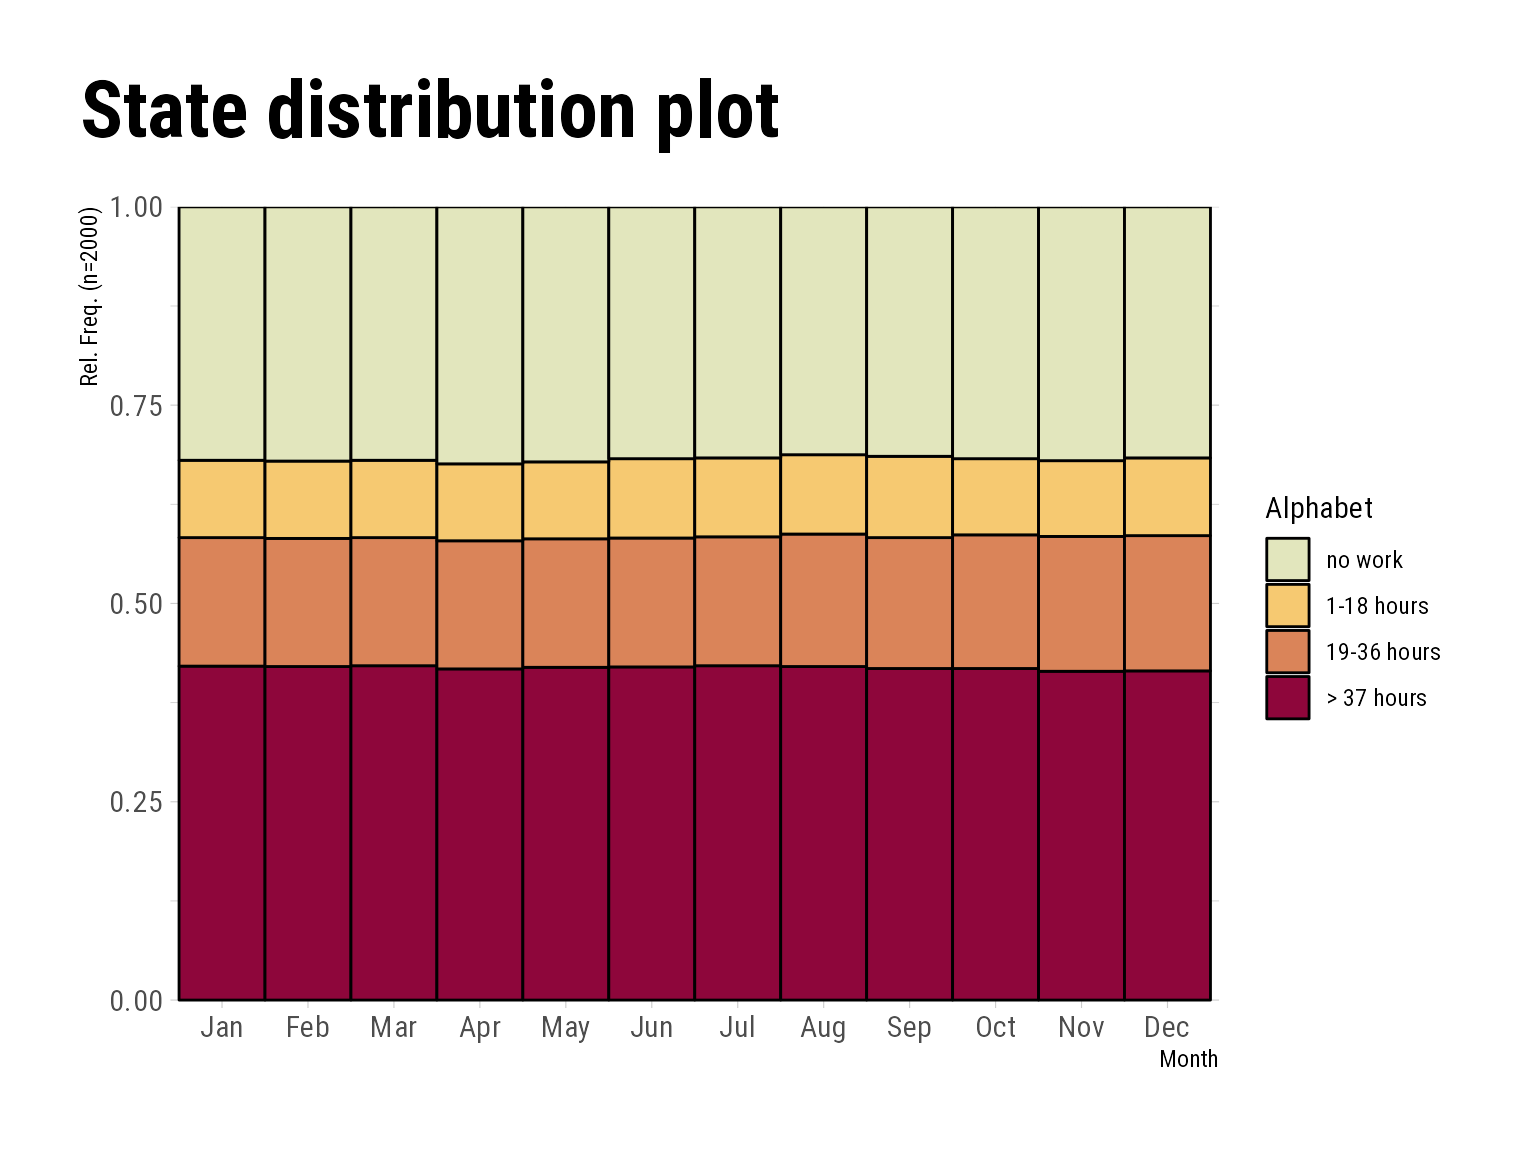
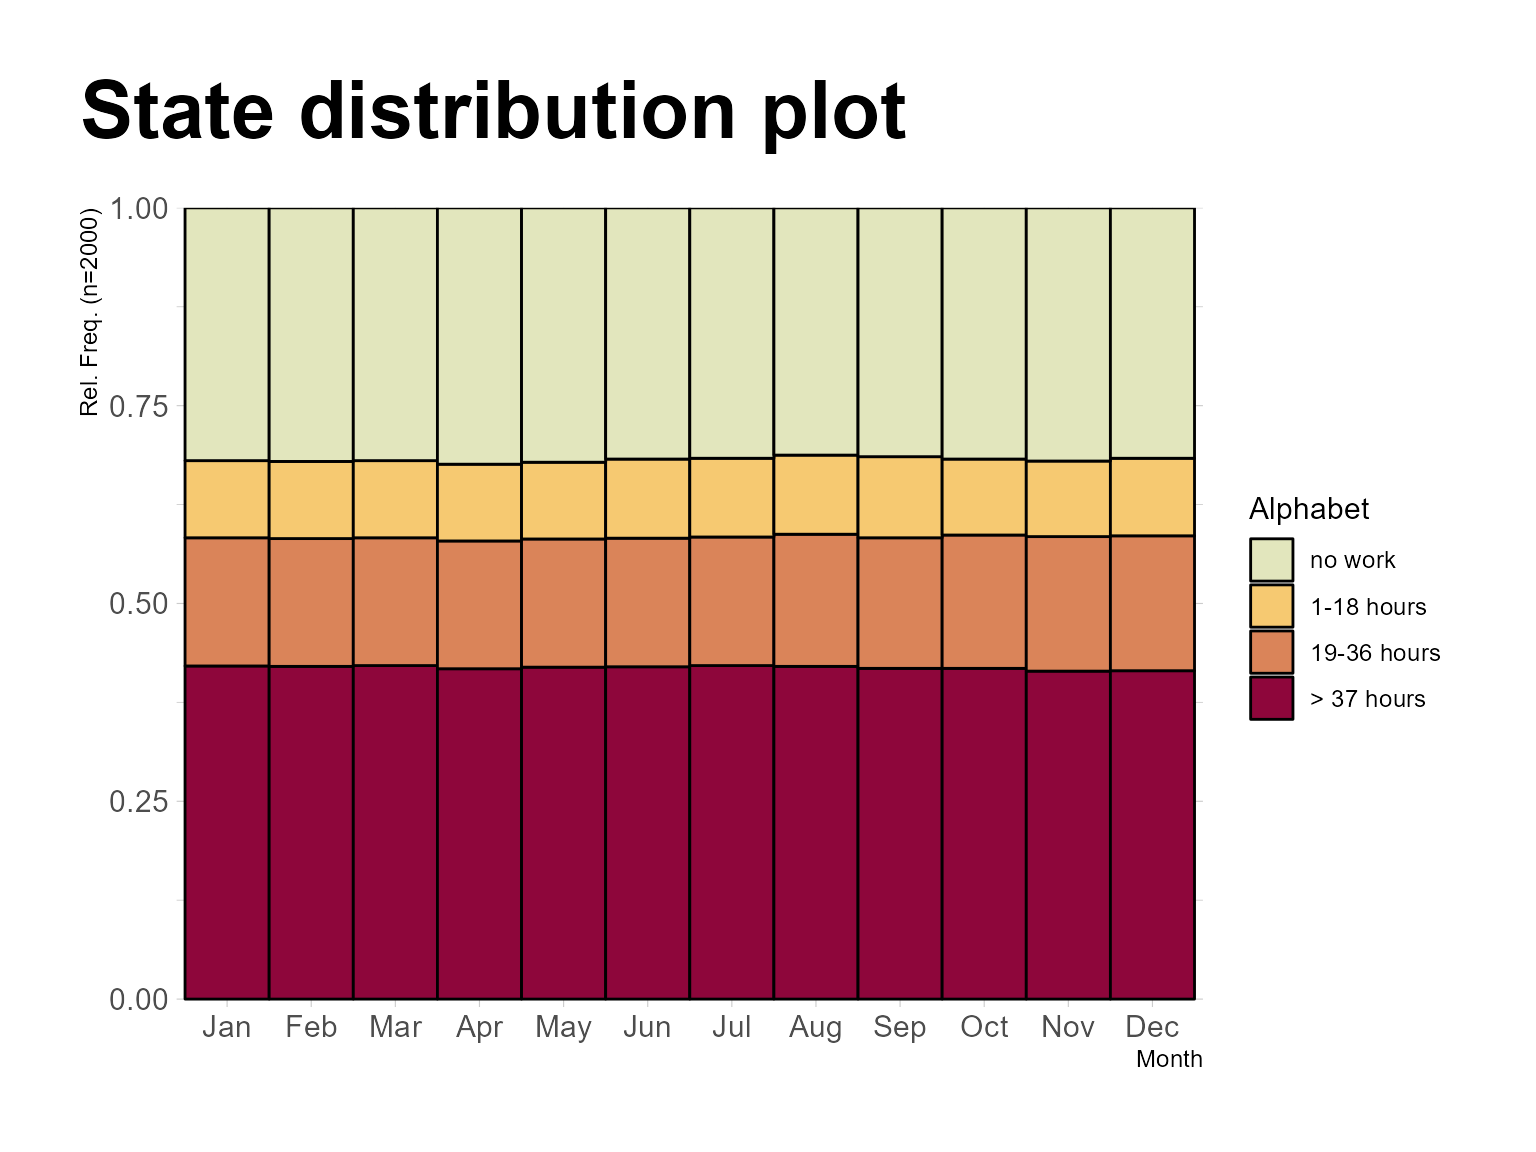
fixed font issue

diff --git a/docs/articles/seq-summarization-plots.html b/docs/articles/seq-summarization-plots.html
@@ -35,7 +35,7 @@
     
     <a class="navbar-brand me-2" href="../index.html">ggseqplot</a>
 
-    <small class="nav-text text-muted me-auto" data-bs-toggle="tooltip" data-bs-placement="bottom" title="">0.0.0.9060</small>
+    <small class="nav-text text-muted me-auto" data-bs-toggle="tooltip" data-bs-placement="bottom" title="">0.0.0.9061</small>
 
     
     <button class="navbar-toggler" type="button" data-bs-toggle="collapse" data-bs-target="#navbar" aria-controls="navbar" aria-expanded="false" aria-label="Toggle navigation">
@@ -165,7 +165,7 @@ packages</strong>
 <span class="va">biofam.lab</span> <span class="op">&lt;-</span> <span class="fu"><a href="https://rdrr.io/r/base/c.html" class="external-link">c</a></span><span class="op">(</span><span class="st">"Parent"</span>, <span class="st">"Left"</span>, <span class="st">"Married"</span>, <span class="st">"Left+Marr"</span>,
                 <span class="st">"Child"</span>, <span class="st">"Left+Child"</span>, <span class="st">"Left+Marr+Child"</span>, <span class="st">"Divorced"</span><span class="op">)</span>
 
-<span class="va">biofam.seq</span> <span class="op">&lt;-</span> <span class="fu">seqdef</span><span class="op">(</span><span class="va">biofam</span>, <span class="fl">10</span><span class="op">:</span><span class="fl">25</span>, 
+<span class="va">biofam.seq</span> <span class="op">&lt;-</span> <span class="fu"><a href="https://rdrr.io/pkg/TraMineR/man/seqdef.html" class="external-link">seqdef</a></span><span class="op">(</span><span class="va">biofam</span>, <span class="fl">10</span><span class="op">:</span><span class="fl">25</span>, 
                      labels <span class="op">=</span> <span class="va">biofam.lab</span>,
                      weights <span class="op">=</span> <span class="va">biofam</span><span class="op">$</span><span class="va">wp00tbgs</span><span class="op">)</span>
 
@@ -174,12 +174,12 @@ packages</strong>
 
 <span class="va">actcal.lab</span> <span class="op">&lt;-</span> <span class="fu"><a href="https://rdrr.io/r/base/c.html" class="external-link">c</a></span><span class="op">(</span><span class="st">"&gt; 37 hours"</span>, <span class="st">"19-36 hours"</span>, <span class="st">"1-18 hours"</span>, <span class="st">"no work"</span><span class="op">)</span>
 
-<span class="va">actcal.seq</span> <span class="op">&lt;-</span> <span class="fu">seqdef</span><span class="op">(</span><span class="va">actcal</span>,<span class="fl">13</span><span class="op">:</span><span class="fl">24</span>,
+<span class="va">actcal.seq</span> <span class="op">&lt;-</span> <span class="fu"><a href="https://rdrr.io/pkg/TraMineR/man/seqdef.html" class="external-link">seqdef</a></span><span class="op">(</span><span class="va">actcal</span>,<span class="fl">13</span><span class="op">:</span><span class="fl">24</span>,
                      labels<span class="op">=</span><span class="va">actcal.lab</span><span class="op">)</span>
 
 <span class="co">## ex1 data</span>
 <span class="fu"><a href="https://rdrr.io/r/utils/data.html" class="external-link">data</a></span><span class="op">(</span><span class="va">ex1</span><span class="op">)</span>
-<span class="va">ex1.seq</span> <span class="op">&lt;-</span> <span class="fu">seqdef</span><span class="op">(</span><span class="va">ex1</span>, <span class="fl">1</span><span class="op">:</span><span class="fl">13</span>, 
+<span class="va">ex1.seq</span> <span class="op">&lt;-</span> <span class="fu"><a href="https://rdrr.io/pkg/TraMineR/man/seqdef.html" class="external-link">seqdef</a></span><span class="op">(</span><span class="va">ex1</span>, <span class="fl">1</span><span class="op">:</span><span class="fl">13</span>, 
                   weights<span class="op">=</span><span class="va">ex1</span><span class="op">$</span><span class="va">weights</span><span class="op">)</span></code></pre></div>
 <p>Note that the default figure size in this document is specified
 as:</p>
@@ -236,7 +236,7 @@ of the defaults. Despite a few layout differences both produce pretty
 similar results.</p>
 <div class="sourceCode" id="cb4"><pre class="downlit sourceCode r">
 <code class="sourceCode R"><span class="co"># TraMineR::seqplot</span>
-<span class="fu">seqdplot</span><span class="op">(</span><span class="va">actcal.seq</span><span class="op">)</span></code></pre></div>
+<span class="fu"><a href="https://rdrr.io/pkg/TraMineR/man/seqplot.html" class="external-link">seqdplot</a></span><span class="op">(</span><span class="va">actcal.seq</span><span class="op">)</span></code></pre></div>
 <p><img src="seq-summarization-plots_files/figure-html/dplot1-1.png" width="768"></p>
 <div class="sourceCode" id="cb5"><pre class="downlit sourceCode r">
 <code class="sourceCode R">
@@ -247,7 +247,7 @@ similar results.</p>
 visualizing the state distributions by gender.</p>
 <div class="sourceCode" id="cb6"><pre class="downlit sourceCode r">
 <code class="sourceCode R"><span class="co"># TraMineR::seqplot</span>
-<span class="fu">seqdplot</span><span class="op">(</span><span class="va">actcal.seq</span>, group<span class="op">=</span><span class="va">actcal</span><span class="op">$</span><span class="va">sex</span><span class="op">)</span></code></pre></div>
+<span class="fu"><a href="https://rdrr.io/pkg/TraMineR/man/seqplot.html" class="external-link">seqdplot</a></span><span class="op">(</span><span class="va">actcal.seq</span>, group<span class="op">=</span><span class="va">actcal</span><span class="op">$</span><span class="va">sex</span><span class="op">)</span></code></pre></div>
 <p><img src="seq-summarization-plots_files/figure-html/unnamed-chunk-3-1.png" width="768"></p>
 <div class="sourceCode" id="cb7"><pre class="downlit sourceCode r">
 <code class="sourceCode R">
@@ -265,13 +265,13 @@ dramatically changed with a few adjustments:</p>
 <div class="sourceCode" id="cb8"><pre class="downlit sourceCode r">
 <code class="sourceCode R"><span class="fu"><a href="../reference/ggseqdplot.html">ggseqdplot</a></span><span class="op">(</span><span class="va">actcal.seq</span><span class="op">)</span> <span class="op">+</span>
   <span class="fu">scale_fill_discrete_sequential</span><span class="op">(</span><span class="st">"heat"</span><span class="op">)</span> <span class="op">+</span>
-  <span class="fu">scale_x_discrete</span><span class="op">(</span>labels <span class="op">=</span> <span class="va">month.abb</span><span class="op">)</span> <span class="op">+</span>
-  <span class="fu">labs</span><span class="op">(</span>title <span class="op">=</span> <span class="st">"State distribution plot"</span>,
+  <span class="fu"><a href="https://ggplot2.tidyverse.org/reference/scale_discrete.html" class="external-link">scale_x_discrete</a></span><span class="op">(</span>labels <span class="op">=</span> <span class="va">month.abb</span><span class="op">)</span> <span class="op">+</span>
+  <span class="fu"><a href="https://ggplot2.tidyverse.org/reference/labs.html" class="external-link">labs</a></span><span class="op">(</span>title <span class="op">=</span> <span class="st">"State distribution plot"</span>,
        x <span class="op">=</span> <span class="st">"Month"</span><span class="op">)</span> <span class="op">+</span>
-  <span class="fu">guides</span><span class="op">(</span>fill<span class="op">=</span><span class="fu">guide_legend</span><span class="op">(</span>title<span class="op">=</span><span class="st">"Alphabet"</span><span class="op">)</span><span class="op">)</span> <span class="op">+</span>
-  <span class="fu">theme_ipsum_rc</span><span class="op">(</span><span class="op">)</span> <span class="op">+</span>
-  <span class="fu">theme</span><span class="op">(</span>plot.title <span class="op">=</span> <span class="fu">element_text</span><span class="op">(</span>size <span class="op">=</span> <span class="fl">30</span>, 
-                                  margin<span class="op">=</span><span class="fu">margin</span><span class="op">(</span><span class="fl">0</span>,<span class="fl">0</span>,<span class="fl">20</span>,<span class="fl">0</span><span class="op">)</span><span class="op">)</span>,
+  <span class="fu"><a href="https://ggplot2.tidyverse.org/reference/guides.html" class="external-link">guides</a></span><span class="op">(</span>fill<span class="op">=</span><span class="fu"><a href="https://ggplot2.tidyverse.org/reference/guide_legend.html" class="external-link">guide_legend</a></span><span class="op">(</span>title<span class="op">=</span><span class="st">"Alphabet"</span><span class="op">)</span><span class="op">)</span> <span class="op">+</span>
+  <span class="fu">theme_ipsum</span><span class="op">(</span>base_family <span class="op">=</span> <span class="st">""</span><span class="op">)</span> <span class="op">+</span> <span class="co"># ensures that this works on different OS</span>
+  <span class="fu"><a href="https://ggplot2.tidyverse.org/reference/theme.html" class="external-link">theme</a></span><span class="op">(</span>plot.title <span class="op">=</span> <span class="fu"><a href="https://ggplot2.tidyverse.org/reference/element.html" class="external-link">element_text</a></span><span class="op">(</span>size <span class="op">=</span> <span class="fl">30</span>, 
+                                  margin<span class="op">=</span><span class="fu"><a href="https://ggplot2.tidyverse.org/reference/element.html" class="external-link">margin</a></span><span class="op">(</span><span class="fl">0</span>,<span class="fl">0</span>,<span class="fl">20</span>,<span class="fl">0</span><span class="op">)</span><span class="op">)</span>,
         plot.title.position <span class="op">=</span> <span class="st">"plot"</span><span class="op">)</span></code></pre></div>
 <p><img src="seq-summarization-plots_files/figure-html/unnamed-chunk-4-1.png" width="768"></p>
 <p>In the following example we again illustrate a few <a href="https://ggplot2.tidyverse.org/" target="_blank" class="external-link"><code>{ggplot2}</code></a> functions &amp; extensions by
@@ -286,23 +286,23 @@ library <span class="citation">(Pedersen, 2020)</span>.</p>
 <code class="sourceCode R"><span class="co"># Save plot using weights</span>
 <span class="va">p1</span> <span class="op">&lt;-</span> <span class="fu"><a href="../reference/ggseqdplot.html">ggseqdplot</a></span><span class="op">(</span><span class="va">ex1.seq</span>, 
                  with.entropy <span class="op">=</span> <span class="cn">TRUE</span><span class="op">)</span> <span class="op">+</span> 
-  <span class="fu">ggtitle</span><span class="op">(</span><span class="st">"Weighted data"</span><span class="op">)</span>
+  <span class="fu"><a href="https://ggplot2.tidyverse.org/reference/labs.html" class="external-link">ggtitle</a></span><span class="op">(</span><span class="st">"Weighted data"</span><span class="op">)</span>
 
 <span class="co"># Save same plot without using weights</span>
 <span class="va">p2</span> <span class="op">&lt;-</span> <span class="fu"><a href="../reference/ggseqdplot.html">ggseqdplot</a></span><span class="op">(</span><span class="va">ex1.seq</span>, 
                  with.entropy <span class="op">=</span> <span class="cn">TRUE</span>,
                  weighted <span class="op">=</span> <span class="cn">FALSE</span><span class="op">)</span> <span class="op">+</span> 
-  <span class="fu">ggtitle</span><span class="op">(</span><span class="st">"Unweighted data"</span><span class="op">)</span>
+  <span class="fu"><a href="https://ggplot2.tidyverse.org/reference/labs.html" class="external-link">ggtitle</a></span><span class="op">(</span><span class="st">"Unweighted data"</span><span class="op">)</span>
 
 <span class="co"># Arrange and refine plots using patchwork</span>
 <span class="va">p1</span> <span class="op">+</span> <span class="va">p2</span> <span class="op">+</span> 
-  <span class="fu">plot_layout</span><span class="op">(</span>guides <span class="op">=</span> <span class="st">"collect"</span><span class="op">)</span> <span class="op">&amp;</span>
-  <span class="fu">scale_fill_manual</span><span class="op">(</span>values<span class="op">=</span> <span class="va">canva_palettes</span><span class="op">$</span><span class="va">`Fun and tropical`</span><span class="op">[</span><span class="fl">1</span><span class="op">:</span><span class="fl">4</span><span class="op">]</span><span class="op">)</span> <span class="op">&amp;</span>
-  <span class="fu">theme_ipsum_rc</span><span class="op">(</span><span class="op">)</span> <span class="op">&amp;</span>
-  <span class="fu">theme</span><span class="op">(</span>plot.title <span class="op">=</span> <span class="fu">element_text</span><span class="op">(</span>size <span class="op">=</span> <span class="fl">20</span>,
+  <span class="fu"><a href="https://patchwork.data-imaginist.com/reference/plot_layout.html" class="external-link">plot_layout</a></span><span class="op">(</span>guides <span class="op">=</span> <span class="st">"collect"</span><span class="op">)</span> <span class="op">&amp;</span>
+  <span class="fu"><a href="https://ggplot2.tidyverse.org/reference/scale_manual.html" class="external-link">scale_fill_manual</a></span><span class="op">(</span>values<span class="op">=</span> <span class="va">canva_palettes</span><span class="op">$</span><span class="va">`Fun and tropical`</span><span class="op">[</span><span class="fl">1</span><span class="op">:</span><span class="fl">4</span><span class="op">]</span><span class="op">)</span> <span class="op">&amp;</span>
+  <span class="fu">theme_ipsum</span><span class="op">(</span>base_family <span class="op">=</span> <span class="st">""</span><span class="op">)</span> <span class="op">&amp;</span>
+  <span class="fu"><a href="https://ggplot2.tidyverse.org/reference/theme.html" class="external-link">theme</a></span><span class="op">(</span>plot.title <span class="op">=</span> <span class="fu"><a href="https://ggplot2.tidyverse.org/reference/element.html" class="external-link">element_text</a></span><span class="op">(</span>size <span class="op">=</span> <span class="fl">20</span>,
                                   hjust <span class="op">=</span> <span class="fl">0.5</span><span class="op">)</span>,
         legend.position <span class="op">=</span> <span class="st">"bottom"</span>,
-        legend.title <span class="op">=</span> <span class="fu">element_blank</span><span class="op">(</span><span class="op">)</span><span class="op">)</span></code></pre></div>
+        legend.title <span class="op">=</span> <span class="fu"><a href="https://ggplot2.tidyverse.org/reference/element.html" class="external-link">element_blank</a></span><span class="op">(</span><span class="op">)</span><span class="op">)</span></code></pre></div>
 <p><img src="seq-summarization-plots_files/figure-html/unnamed-chunk-5-1.png" width="768"></p>
 </div>
 </div>
@@ -354,19 +354,19 @@ compute and display the transition rates of the STS sequences.</p>
                   dss <span class="op">=</span> <span class="cn">FALSE</span>, 
                   x_n.dodge <span class="op">=</span> <span class="fl">2</span>,
                   labsize <span class="op">=</span> <span class="fl">3</span><span class="op">)</span> <span class="op">+</span>
-  <span class="fu">ggtitle</span><span class="op">(</span><span class="st">"STS Sequences"</span><span class="op">)</span> <span class="op">+</span>
-  <span class="fu">theme</span><span class="op">(</span>plot.margin <span class="op">=</span> <span class="fu">unit</span><span class="op">(</span><span class="fu"><a href="https://rdrr.io/r/base/c.html" class="external-link">c</a></span><span class="op">(</span><span class="fl">5</span>,<span class="fl">10</span>,<span class="fl">5</span>,<span class="fl">5</span><span class="op">)</span>, <span class="st">"points"</span><span class="op">)</span><span class="op">)</span>
+  <span class="fu"><a href="https://ggplot2.tidyverse.org/reference/labs.html" class="external-link">ggtitle</a></span><span class="op">(</span><span class="st">"STS Sequences"</span><span class="op">)</span> <span class="op">+</span>
+  <span class="fu"><a href="https://ggplot2.tidyverse.org/reference/theme.html" class="external-link">theme</a></span><span class="op">(</span>plot.margin <span class="op">=</span> <span class="fu"><a href="https://rdrr.io/r/grid/unit.html" class="external-link">unit</a></span><span class="op">(</span><span class="fu"><a href="https://rdrr.io/r/base/c.html" class="external-link">c</a></span><span class="op">(</span><span class="fl">5</span>,<span class="fl">10</span>,<span class="fl">5</span>,<span class="fl">5</span><span class="op">)</span>, <span class="st">"points"</span><span class="op">)</span><span class="op">)</span>
 <span class="co">#&gt;  [&gt;] computing transition probabilities for states 0/1/2/3/4/5/6/7 ...</span>
 
 <span class="va">p2</span> <span class="op">&lt;-</span> <span class="fu"><a href="../reference/ggseqtrplot.html">ggseqtrplot</a></span><span class="op">(</span><span class="va">biofam.seq</span>, 
                   x_n.dodge <span class="op">=</span> <span class="fl">2</span>,
                   labsize <span class="op">=</span> <span class="fl">3</span><span class="op">)</span> <span class="op">+</span>
-    <span class="fu">ggtitle</span><span class="op">(</span><span class="st">"DSS Sequences"</span><span class="op">)</span> <span class="op">+</span>
-  <span class="fu">theme</span><span class="op">(</span>plot.margin <span class="op">=</span> <span class="fu">unit</span><span class="op">(</span><span class="fu"><a href="https://rdrr.io/r/base/c.html" class="external-link">c</a></span><span class="op">(</span><span class="fl">5</span>,<span class="fl">5</span>,<span class="fl">5</span>,<span class="fl">10</span><span class="op">)</span>, <span class="st">"points"</span><span class="op">)</span><span class="op">)</span>
+    <span class="fu"><a href="https://ggplot2.tidyverse.org/reference/labs.html" class="external-link">ggtitle</a></span><span class="op">(</span><span class="st">"DSS Sequences"</span><span class="op">)</span> <span class="op">+</span>
+  <span class="fu"><a href="https://ggplot2.tidyverse.org/reference/theme.html" class="external-link">theme</a></span><span class="op">(</span>plot.margin <span class="op">=</span> <span class="fu"><a href="https://rdrr.io/r/grid/unit.html" class="external-link">unit</a></span><span class="op">(</span><span class="fu"><a href="https://rdrr.io/r/base/c.html" class="external-link">c</a></span><span class="op">(</span><span class="fl">5</span>,<span class="fl">5</span>,<span class="fl">5</span>,<span class="fl">10</span><span class="op">)</span>, <span class="st">"points"</span><span class="op">)</span><span class="op">)</span>
 <span class="co">#&gt;  [&gt;] computing transition probabilities for states 0/1/2/3/4/5/6/7 ...</span>
 
 <span class="va">p1</span> <span class="op">+</span> <span class="va">p2</span> <span class="op">&amp;</span>
-  <span class="fu">theme</span><span class="op">(</span>plot.title <span class="op">=</span> <span class="fu">element_text</span><span class="op">(</span>size <span class="op">=</span> <span class="fl">20</span>,
+  <span class="fu"><a href="https://ggplot2.tidyverse.org/reference/theme.html" class="external-link">theme</a></span><span class="op">(</span>plot.title <span class="op">=</span> <span class="fu"><a href="https://ggplot2.tidyverse.org/reference/element.html" class="external-link">element_text</a></span><span class="op">(</span>size <span class="op">=</span> <span class="fl">20</span>,
                                   hjust <span class="op">=</span> <span class="fl">0.5</span><span class="op">)</span><span class="op">)</span></code></pre></div>
 <p><img src="seq-summarization-plots_files/figure-html/unnamed-chunk-7-1.png" width="768"></p>
 <p>Other than the grouped version of the plot this composed figure
@@ -375,11 +375,11 @@ small adjustments of the corresponding <code>theme</code> arguments.</p>
 <div class="sourceCode" id="cb12"><pre class="downlit sourceCode r">
 <code class="sourceCode R">
 <span class="va">p2</span> <span class="op">&lt;-</span> <span class="va">p2</span> <span class="op">+</span>
-  <span class="fu">theme</span><span class="op">(</span>axis.text.y <span class="op">=</span> <span class="fu">element_blank</span><span class="op">(</span><span class="op">)</span>, 
-        axis.title.y <span class="op">=</span> <span class="fu">element_blank</span><span class="op">(</span><span class="op">)</span><span class="op">)</span>
+  <span class="fu"><a href="https://ggplot2.tidyverse.org/reference/theme.html" class="external-link">theme</a></span><span class="op">(</span>axis.text.y <span class="op">=</span> <span class="fu"><a href="https://ggplot2.tidyverse.org/reference/element.html" class="external-link">element_blank</a></span><span class="op">(</span><span class="op">)</span>, 
+        axis.title.y <span class="op">=</span> <span class="fu"><a href="https://ggplot2.tidyverse.org/reference/element.html" class="external-link">element_blank</a></span><span class="op">(</span><span class="op">)</span><span class="op">)</span>
 
 <span class="va">p1</span> <span class="op">+</span> <span class="va">p2</span> <span class="op">&amp;</span>
-  <span class="fu">theme</span><span class="op">(</span>plot.title <span class="op">=</span> <span class="fu">element_text</span><span class="op">(</span>size <span class="op">=</span> <span class="fl">20</span>,
+  <span class="fu"><a href="https://ggplot2.tidyverse.org/reference/theme.html" class="external-link">theme</a></span><span class="op">(</span>plot.title <span class="op">=</span> <span class="fu"><a href="https://ggplot2.tidyverse.org/reference/element.html" class="external-link">element_text</a></span><span class="op">(</span>size <span class="op">=</span> <span class="fl">20</span>,
                                   hjust <span class="op">=</span> <span class="fl">0.5</span><span class="op">)</span><span class="op">)</span></code></pre></div>
 <p><img src="seq-summarization-plots_files/figure-html/unnamed-chunk-8-1.png" width="768"></p>
 <hr>

diff --git a/docs/articles/index.html b/docs/articles/index.html
@@ -10,7 +10,7 @@
     
     <a class="navbar-brand me-2" href="../index.html">ggseqplot</a>
 
-    <small class="nav-text text-muted me-auto" data-bs-toggle="tooltip" data-bs-placement="bottom" title="">0.0.0.9060</small>
+    <small class="nav-text text-muted me-auto" data-bs-toggle="tooltip" data-bs-placement="bottom" title="">0.0.0.9061</small>
 
     
     <button class="navbar-toggler" type="button" data-bs-toggle="collapse" data-bs-target="#navbar" aria-controls="navbar" aria-expanded="false" aria-label="Toggle navigation">
